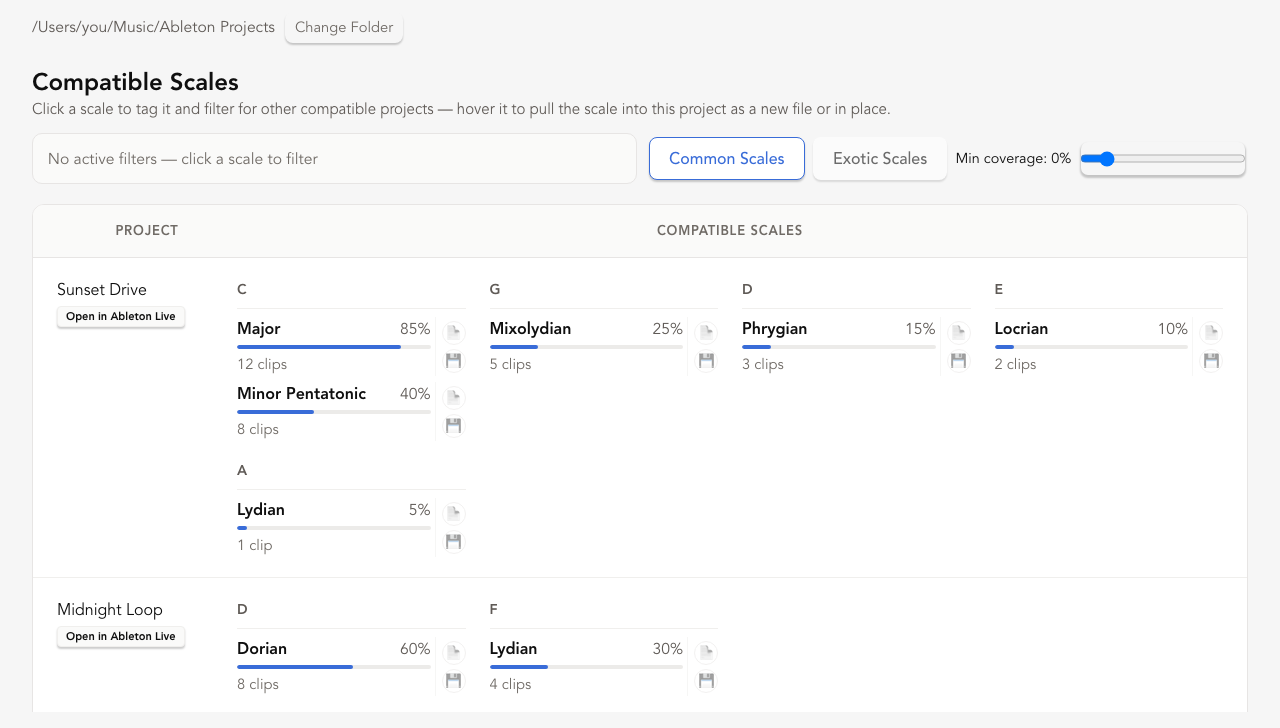
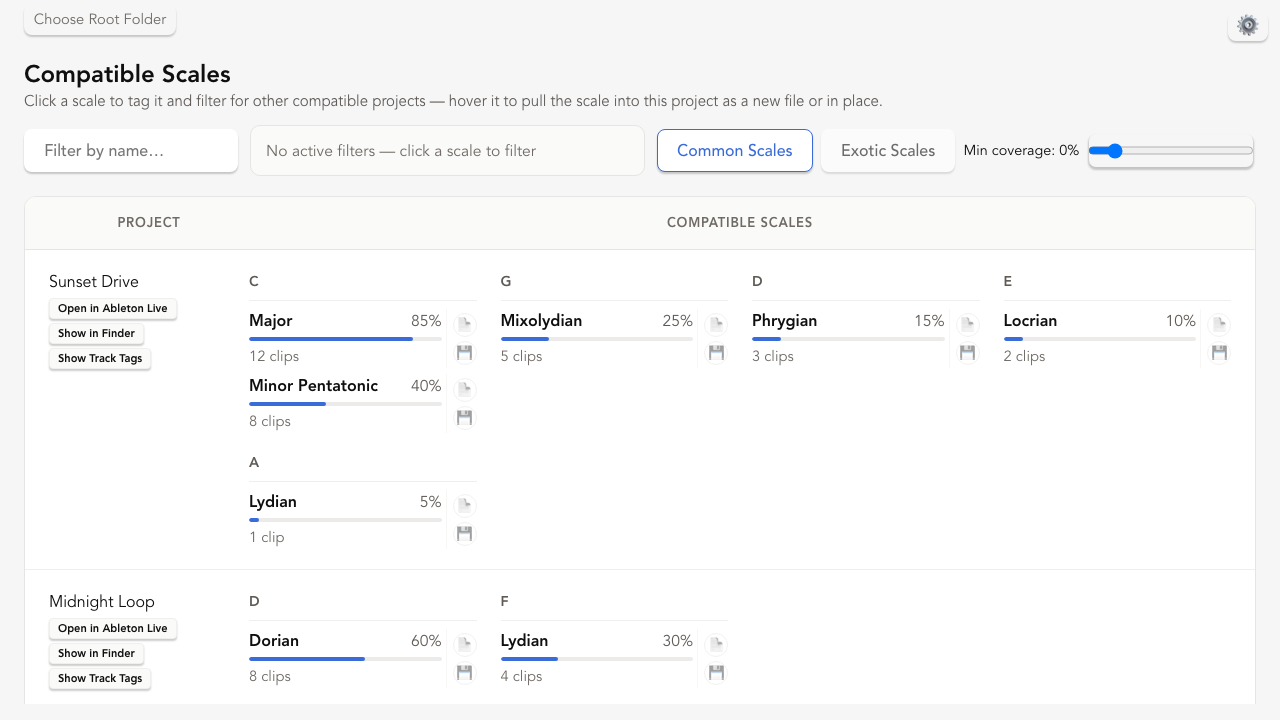
README: mark the mashup as paused, refresh the screenshot (#21)
* README: mark the mashup as paused, refresh the screenshot

The mashup module moved to a folder in #17, so fix the link. The roadmap
item described a picker UI that won't be built; say it's paused and why.
The screenshot predates the name filter and the Finder and track-tag
buttons.

* README: catch up with track tags, name filter and the mashup CLI

---------

diff --git a/README.md b/README.md
@@ -30,9 +30,12 @@ Point it at a folder of `.als` files and it will:
 - **Infer** compatible scales directly from MIDI clip note content when a
   project has no explicit scale set.
 - **Filter** the whole list by scale, so you can answer "which of my
-  projects are in D Dorian?" in one click.
+  projects are in D Dorian?" in one click, or by project name.
 - **Apply** a chosen scale back to a project, tagging every MIDI clip that's
-  compatible with it.
+  compatible with it. By default the result is saved as a new file next to
+  the original; overwriting in place backs the original up first.
+- **Tag tracks** by category (drums, bass, vocals, ...), from track names
+  or from the tags in Live's own database if you point Settings at it.
 
 ## Status
 
@@ -43,8 +46,9 @@ This is early — v0.1, unreleased. What's solid vs. what's still missing:
 - Directory scanning + virtualized/filterable project table
 - Explicit `ScaleInformation` parsing
 - Scale inference from MIDI clip content
-- Filter-by-scale UI
+- Filter-by-scale and filter-by-name UI
 - Applying a scale to a project, writing it onto every compatible MIDI clip
+- Track categories per project (Show Track Tags)
 
 **Not yet**
 
@@ -54,19 +58,20 @@ This is early — v0.1, unreleased. What's solid vs. what's still missing:
 
 ### Experimental
 
-Working on the backend, not yet in the UI. Checked by opening the output in
-Ableton Live, but only on a small sample of files from the current Live
+Paused, and only in the backend, not the UI. Checked by opening the output
+in Ableton Live, but only on a small sample of files from the current Live
 version. Projects saved in older Live versions haven't been tested.
 
-- **Mashup** (`src-tauri/src/als/mashup.rs`): splice selected tracks from
+- **Mashup** (`src-tauri/src/als/mashup/`): splice selected tracks from
   two `.als` projects into one new, valid Live Set. Both projects keep
   their return tracks, and every track's sends are lined up so each one
   still feeds its own project's returns. Exposed as the `mashup_create`
   Tauri command.
 - **Dev CLIs** (`src-tauri/src/bin/`):
-  - `mashup <A.als> <B.als> -o <out.als>` — mash up every track of one
-    pair into a new file, checked for known structural problems before
-    writing. Doesn't touch Live.
+  - `mashup <A.als> <B.als> -o <out.als>` — mash up one pair into a new
+    file, with B moved into A's key and up to 6 seeded variations
+    (`--variations`, `--seed`), checked for known structural problems
+    before writing. Doesn't touch Live.
 
   These two drive the real Live app via macOS accessibility (`osascript`)
   to prove its output loads:
@@ -83,8 +88,9 @@ version. Projects saved in older Live versions haven't been tested.
 ## Technical highlights
 
 - `.als` files are gzipped XML; the Rust backend decompresses (`flate2`) and
-  parses (`roxmltree`) them, and writes changes back with a backup of the
-  original first.
+  parses (`roxmltree`) them. Changes are saved as a new file, or written in
+  place only after backing the original up into the project's `Backup/`
+  folder.
 - Scale inference reduces every MIDI clip to its pitch-class set and scores
   it against all scale/root combinations.
 - Scanning runs off the UI thread in parallel (`rayon`) so the app never
@@ -124,7 +130,7 @@ pnpm tauri build
 ### Test it
 
 ```sh
-cargo test       # from src-tauri/ — Rust unit tests
+cargo test       # from src-tauri/ — Rust unit and integration tests
 pnpm test        # vitest — frontend unit tests
 pnpm test:e2e    # playwright — end-to-end UI tests
 ```
@@ -148,11 +154,12 @@ For how each feature was designed and what I learned building it, see the
       notes)
 - [ ] Packaged builds / releases
 - [x] Categorize a project's tracks (DRUMS, BASS, PERCUSSION, VOCALS, ...)
-      from their names — not yet surfaced in the UI
-- [ ] **Mashup**: filter projects down to a shared scale, select several of
-      them, and get a picker of elements to pull from each into one new
-      project — backend works for 2 projects (see Experimental above), UI
-      in progress
+      from their names or Live's database tags, shown per project
+- [ ] **Mashup** (paused): combine two scale-compatible projects into one
+      new set that opens in Live. The backend works for two projects (see
+      Experimental above). I paused it because the plumbing worked but the
+      musical results didn't: deciding how two sketches should be combined
+      is a matter of taste, and code applying fixed rules can't supply it
 
 ## License
 
